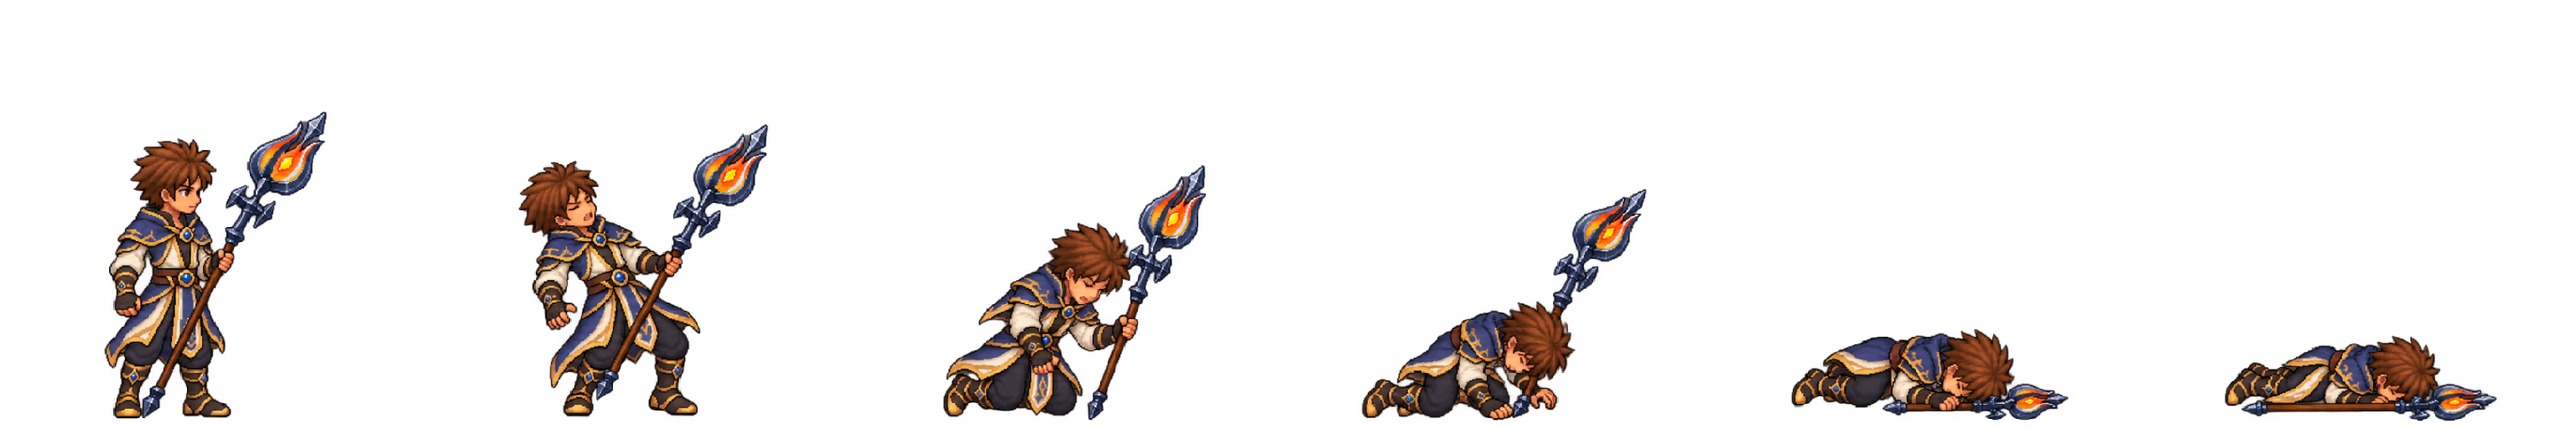
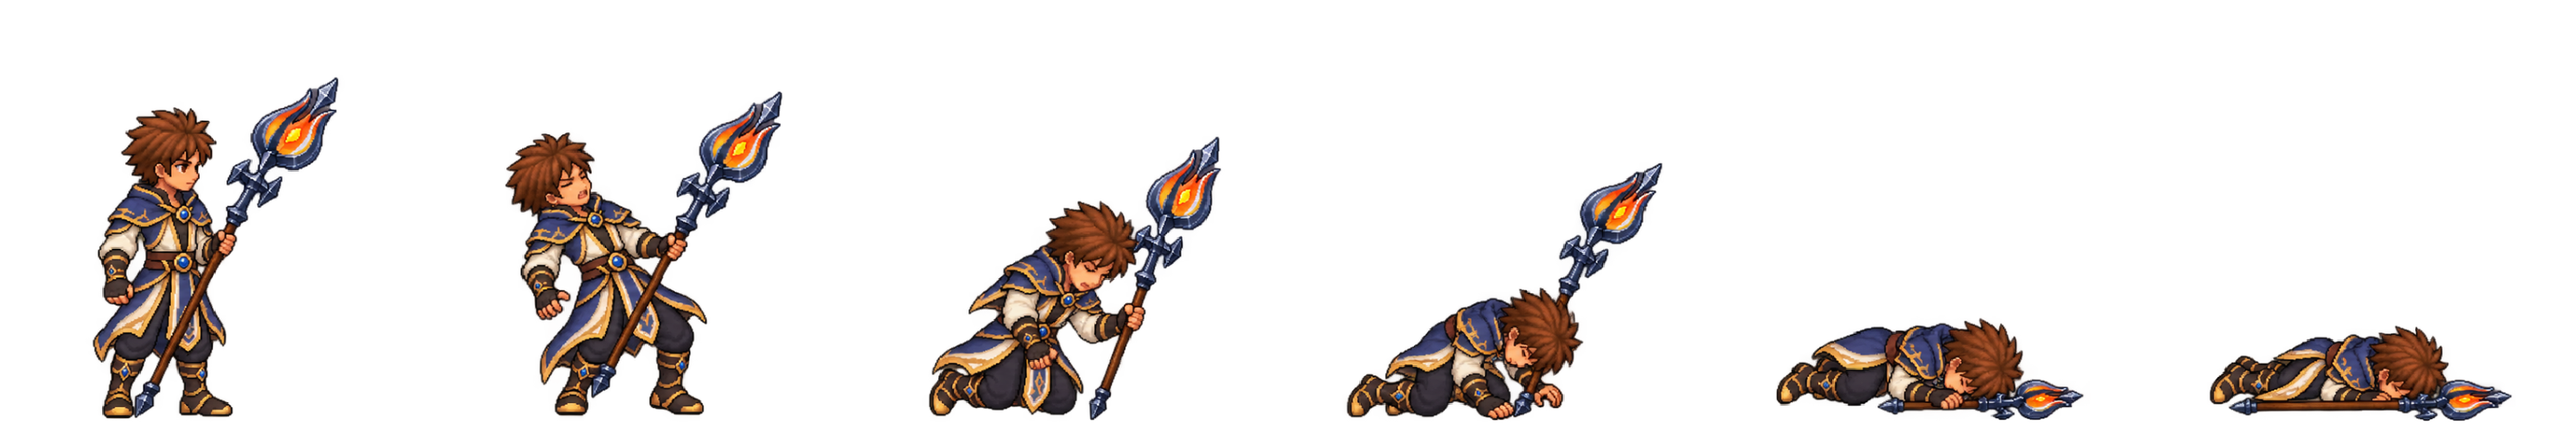
Align infernal character body independently from staff

diff --git a/apps/client/src/game/render/RenderManifestParsing.test.ts b/apps/client/src/game/render/RenderManifestParsing.test.ts
@@ -117,7 +117,7 @@ describe("Infernal Staff normalized animation parsing", () => {
       throw new Error("Expected actor manifest");
     }
 
-    expect(parsed.offset).toEqual({ x: 27, y: 58 });
+    expect(parsed.offset).toEqual({ x: 30, y: 58 });
 
     for (const animation of Object.values(parsed.animations)) {
       expect(animation.frameWidth).toBe(512);
